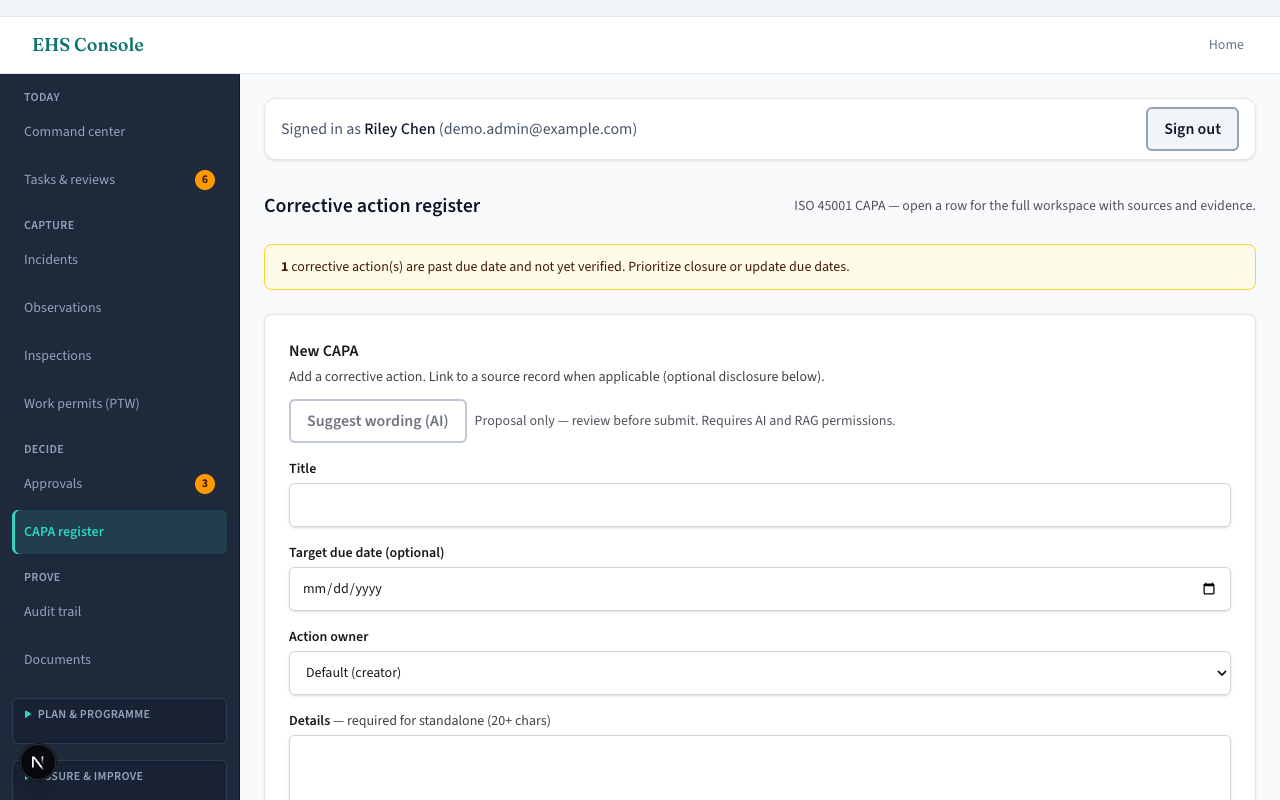
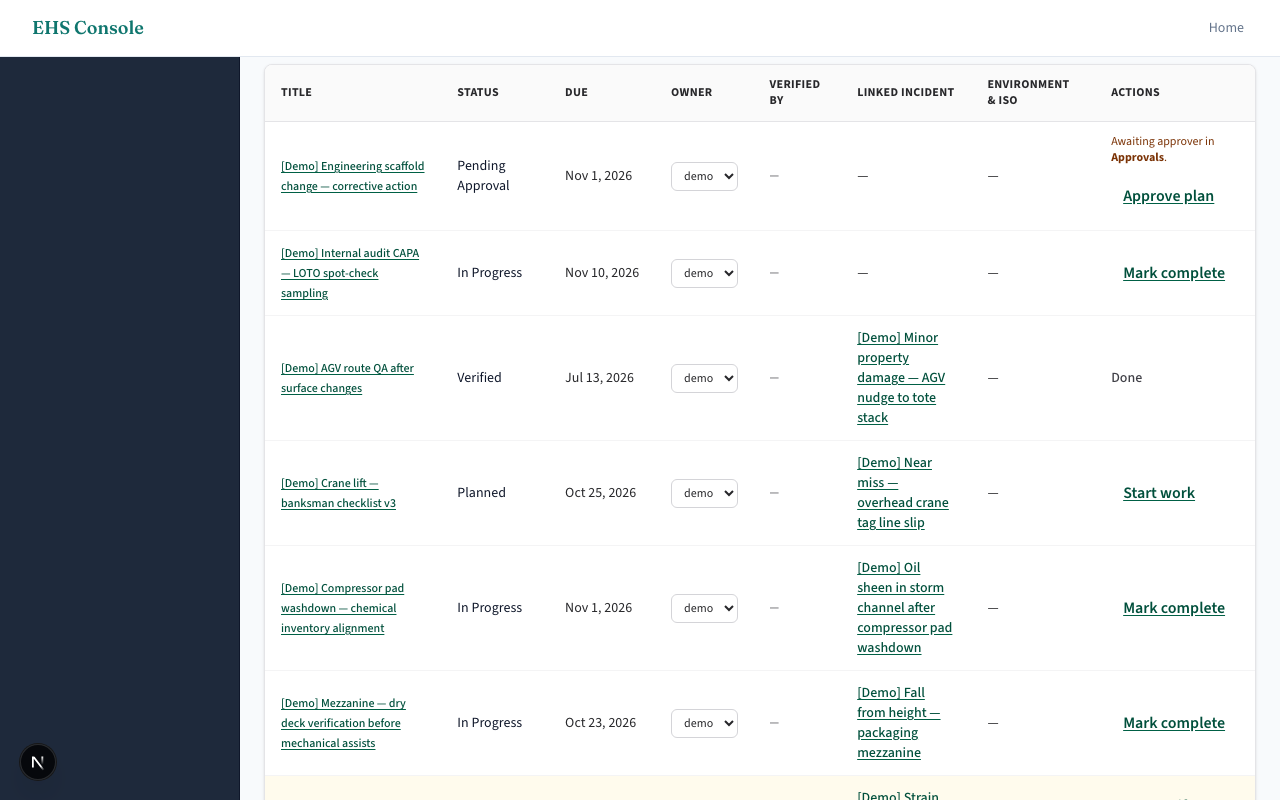
Show the incident, CAPA, and TRIR path in the README. (#149)
Full-width stills of those three screens replace the unlabeled gallery so the public claim matches what a stranger sees.

diff --git a/docs/assets/README.md b/docs/assets/README.md
@@ -2,17 +2,21 @@
 
 | File | Purpose |
 |------|---------|
-| [`demo.gif`](demo.gif) | README hero — Calm Focus Today through metrics (6 frames, 2s each). Regenerate PNGs with `npm run screenshots`; rebuild GIF with `npm run screenshots:rebuild-gif`. |
-| [`command-center.png`](command-center.png) | Desk Today / operations command center (Your work first) |
-| [`incidents.png`](incidents.png) | Incident roster |
-| [`capa.png`](capa.png) | CAPA register |
-| [`approvals.png`](approvals.png) | Approval inbox |
-| [`tasks.png`](tasks.png) | Task hub |
-| [`inspections.png`](inspections.png) | Inspections list |
-| [`analytics.png`](analytics.png) | Safety metrics |
-| [`audit-trail.png`](audit-trail.png) | System audit trail |
-| [`observations.png`](observations.png) | Safety observations |
-| [`permits.png`](permits.png) | Work permits |
+| [`incidents.png`](incidents.png) | README. Full-width still of the incident roster. |
+| [`capa.png`](capa.png) | README. Full-width still of the corrective action register (scrolled past the new-CAPA form). |
+| [`incidence-rates.png`](incidence-rates.png) | README. Full-width still after computing a snapshot. |
+| [`spine-home.png`](spine-home.png) | Element screenshot of the dashboard spine card. Not embedded; the three stills above are the README. |
+| [`demo.gif`](demo.gif) | Three frames (incidents, CAPA, incidence rates), 2s each. Not embedded. Stills stay captioned. Rebuild with `npm run screenshots:rebuild-gif`. |
+| [`command-center.png`](command-center.png) | Wider console gallery. Not the README claim. |
+| [`approvals.png`](approvals.png) | Wider console gallery. Not the README claim. |
+| [`tasks.png`](tasks.png) | Wider console gallery. Not the README claim. |
+| [`inspections.png`](inspections.png) | Wider console gallery. Not the README claim. |
+| [`analytics.png`](analytics.png) | Wider console gallery. Not the README claim. |
+| [`audit-trail.png`](audit-trail.png) | Wider console gallery. Not the README claim. |
+| [`observations.png`](observations.png) | Wider console gallery. Not the README claim. |
+| [`permits.png`](permits.png) | Wider console gallery. Not the README claim. |
 | [`github-social-preview.png`](github-social-preview.png) | GitHub **Social preview** (1280×640). Upload via **Settings → General → Social preview** on the repo. See [REPO_SETUP.md § OSS health badges](../../REPO_SETUP.md#10-oss-health-badges--social-preview). |
 
-No PII or live tenant names. Regenerate if product name or tagline changes materially.
+The older gallery PNGs (command-center, approvals, tasks, inspections, analytics, audit-trail, observations, permits) document the wider console and are not the README claim. Regenerate with `npm run screenshots:gallery`.
+
+Regenerate the README set with `npm run screenshots` while the demo is signed in. No PII.

diff --git a/README.md b/README.md
@@ -7,6 +7,18 @@ Record an incident, link a CAPA, and walk that CAPA to verified, on PostgreSQL y
 
 The public path is that spine. Other modules ship in the tree; maturity is listed in [docs/module-maturity.md](docs/module-maturity.md).
 
+**Record an incident**
+
+![Incident roster with title, severity, and status. Demo records are labeled Demo.](docs/assets/incidents.png)
+
+**Link a CAPA**
+
+![Corrective action register with status, due date, and linked incident.](docs/assets/capa.png)
+
+**Read TRIR**
+
+![Incidence rates with a saved TRIR. Partial monthly hours do not replace the annual total.](docs/assets/incidence-rates.png)
+
 ## TRIR
 
 Incidence rates use `(recordable count × 200,000) / hours worked`.
